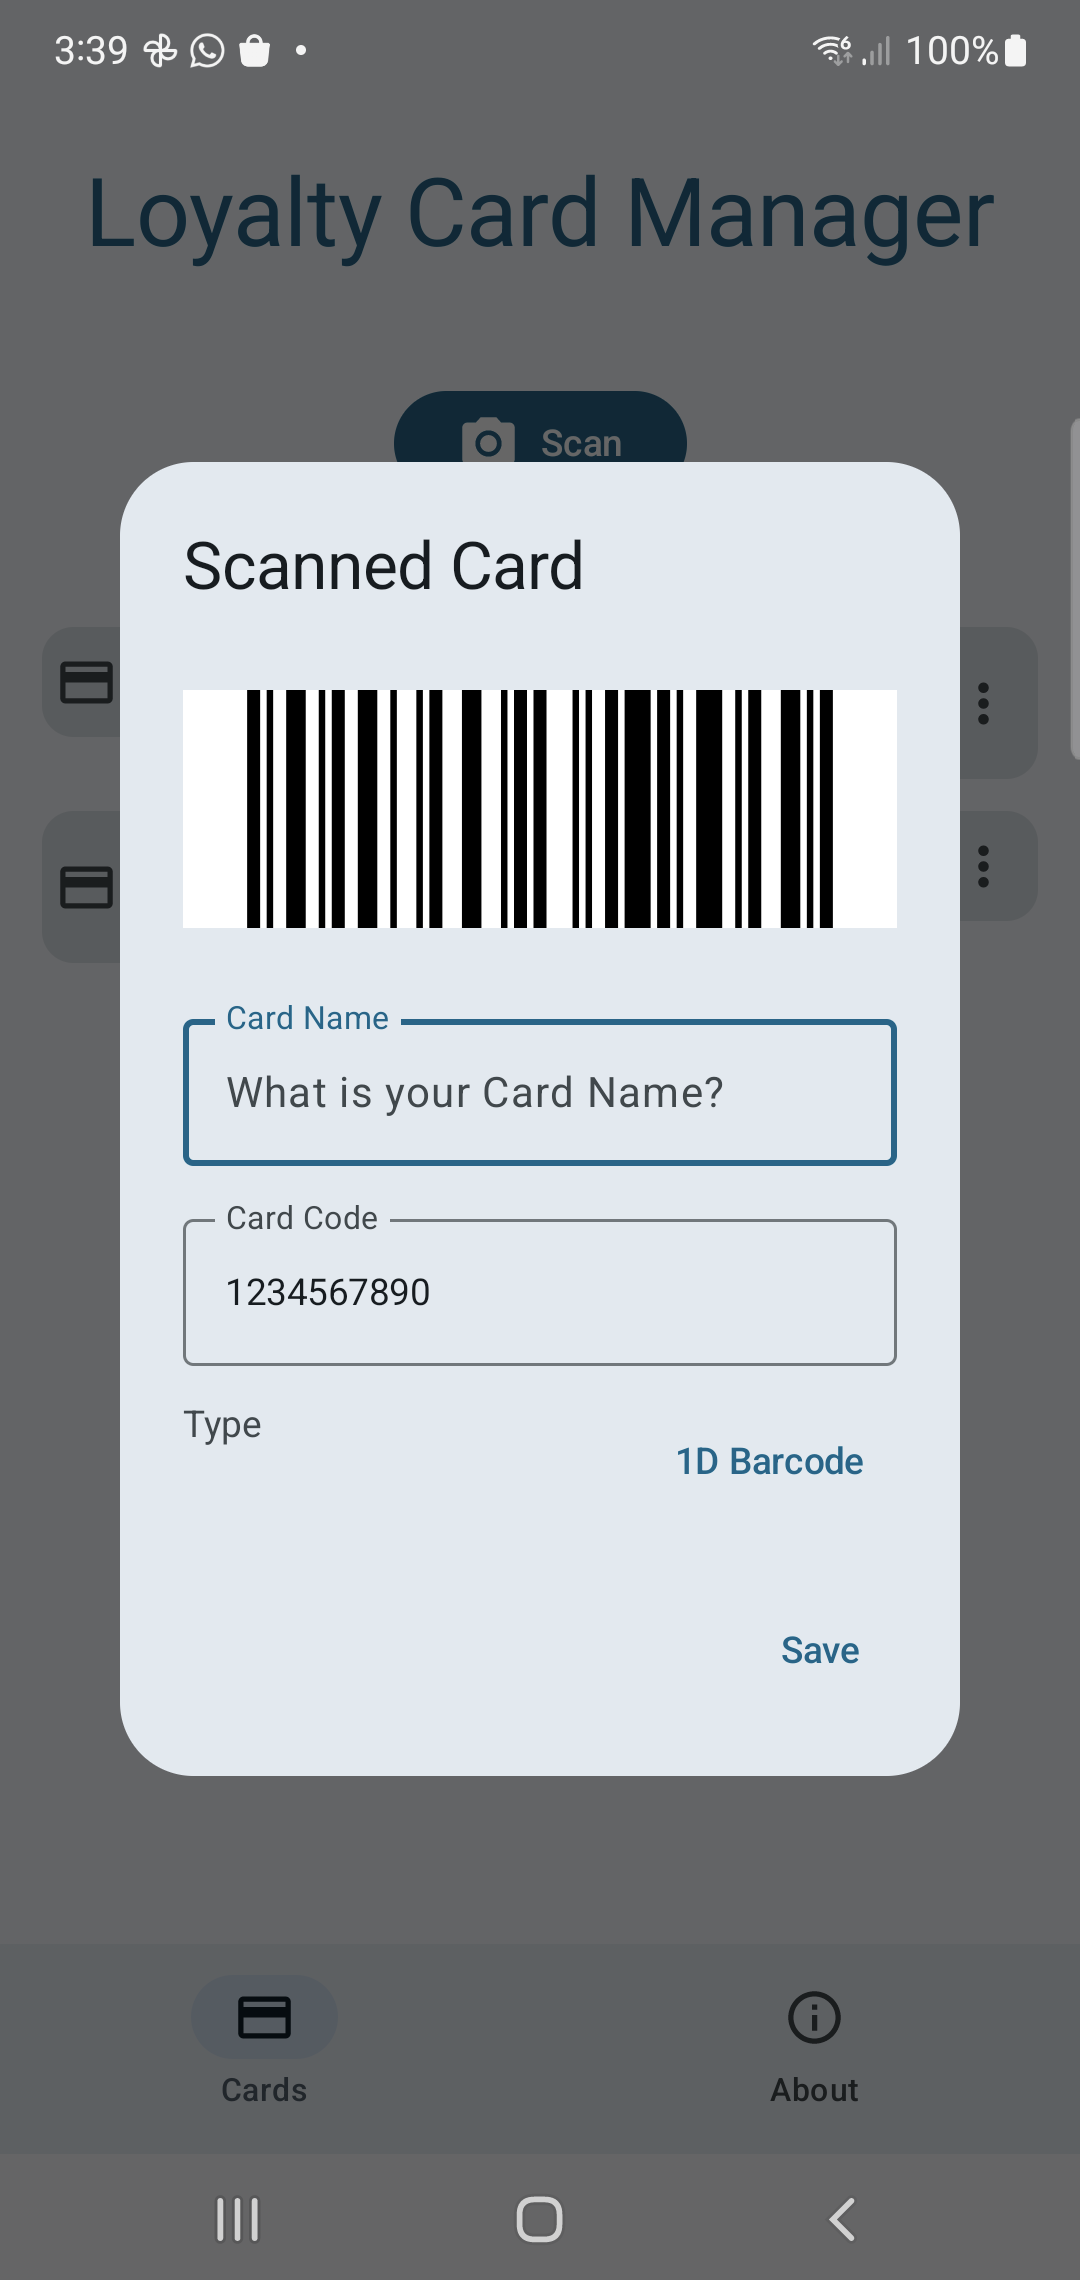
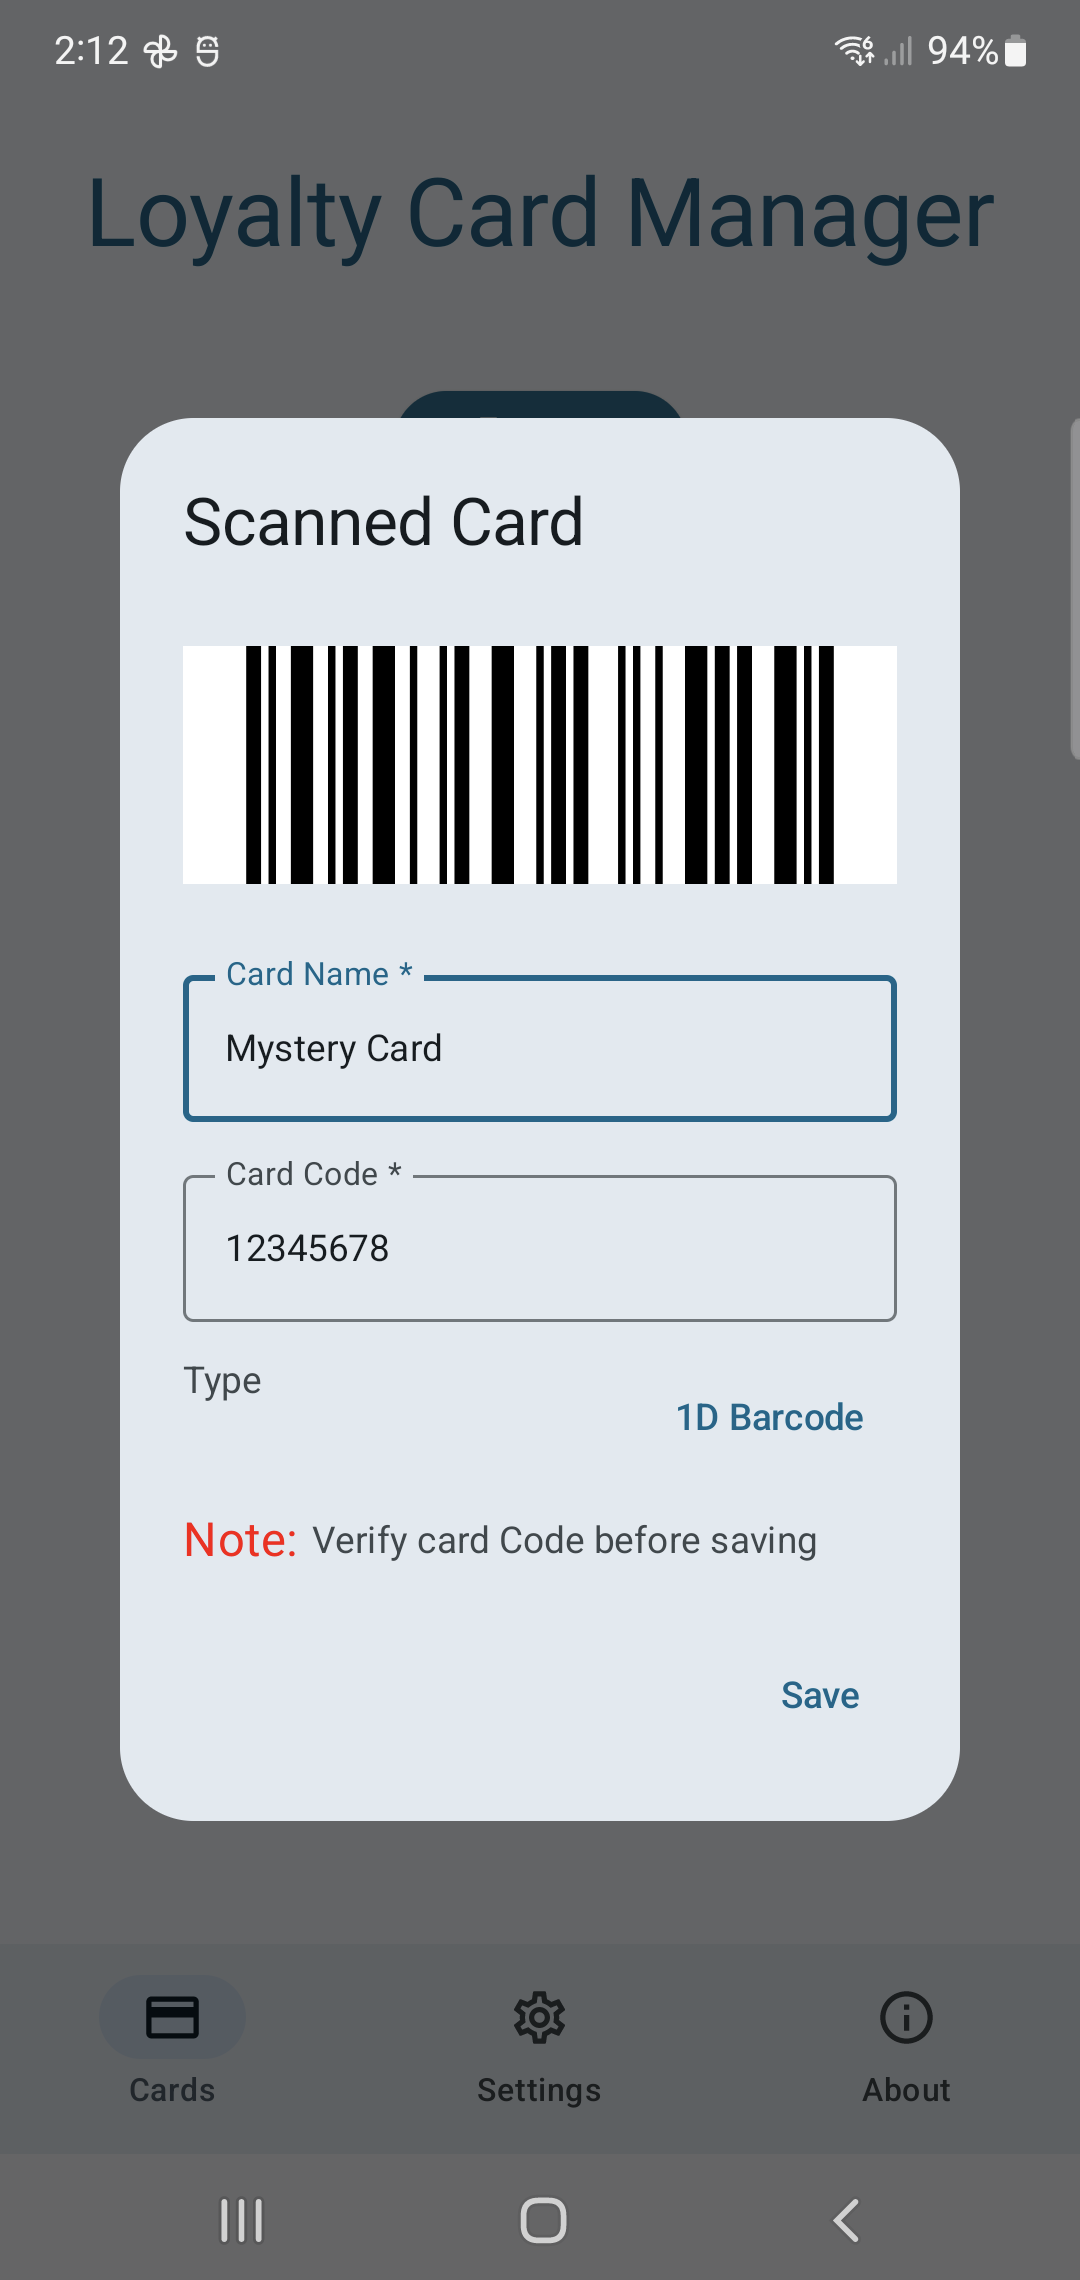
Add warning message

diff --git a/Code/app/src/main/java/com/cyberfeedforward/loyaltycardmanager/ui/cards/CardsRoute.kt b/Code/app/src/main/java/com/cyberfeedforward/loyaltycardmanager/ui/cards/CardsRoute.kt
@@ -26,7 +26,9 @@ import androidx.compose.runtime.LaunchedEffect
 import androidx.compose.runtime.saveable.rememberSaveable
 import androidx.compose.runtime.mutableStateOf
 import androidx.compose.runtime.setValue
+import androidx.compose.ui.Alignment
 import androidx.compose.ui.Modifier
+import androidx.compose.ui.graphics.Color.Companion.Red
 import androidx.compose.ui.graphics.asImageBitmap
 import androidx.compose.ui.platform.LocalContext
 import androidx.compose.ui.unit.dp
@@ -279,6 +281,18 @@ fun CardsRoute(
                             }
                         }
                     }
+
+                    Row(
+                        horizontalArrangement = Arrangement.SpaceBetween,
+                        verticalAlignment = Alignment.CenterVertically
+                    ) {
+                        Text(
+                            text = "Note: ",
+                            color = Red,
+                            fontSize = 18.sp
+                        )
+                        Text(text = "Verify card Code before saving")
+                    }
                 }
             },
         )
@@ -414,6 +428,18 @@ private fun ScanResultDialog(
                             )
                         }
                     }
+                }
+
+                Row(
+                    horizontalArrangement = Arrangement.SpaceBetween,
+                    verticalAlignment = Alignment.CenterVertically
+                ) {
+                    Text(
+                        text = "Note: ",
+                        color = Red,
+                        fontSize = 18.sp
+                    )
+                    Text(text = "Verify Card Code before saving")
                 }
             }
         },

diff --git a/Code/app/src/main/java/com/cyberfeedforward/loyaltycardmanager/MainActivity.kt b/Code/app/src/main/java/com/cyberfeedforward/loyaltycardmanager/MainActivity.kt
@@ -1,5 +1,6 @@
 package com.cyberfeedforward.loyaltycardmanager
 
+import android.content.Context
 import android.os.Bundle
 import androidx.activity.ComponentActivity
 import androidx.activity.compose.setContent
@@ -13,7 +14,9 @@ import com.cyberfeedforward.loyaltycardmanager.ui.settings.SettingsViewModel
 import com.cyberfeedforward.loyaltycardmanager.ui.theme.LoyaltyCardManagerTheme
 
 class MainActivity : ComponentActivity() {
-    private val settingsViewModel: SettingsViewModel by viewModels()
+    private val settingsViewModel: SettingsViewModel by viewModels {
+        SettingsViewModel.Factory(getSharedPreferences("settings", Context.MODE_PRIVATE))
+    }
 
     override fun onCreate(savedInstanceState: Bundle?) {
         super.onCreate(savedInstanceState)
